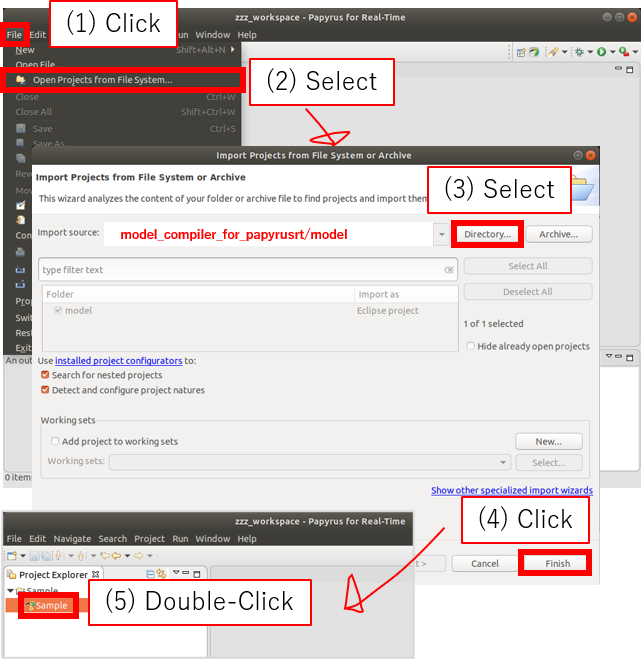
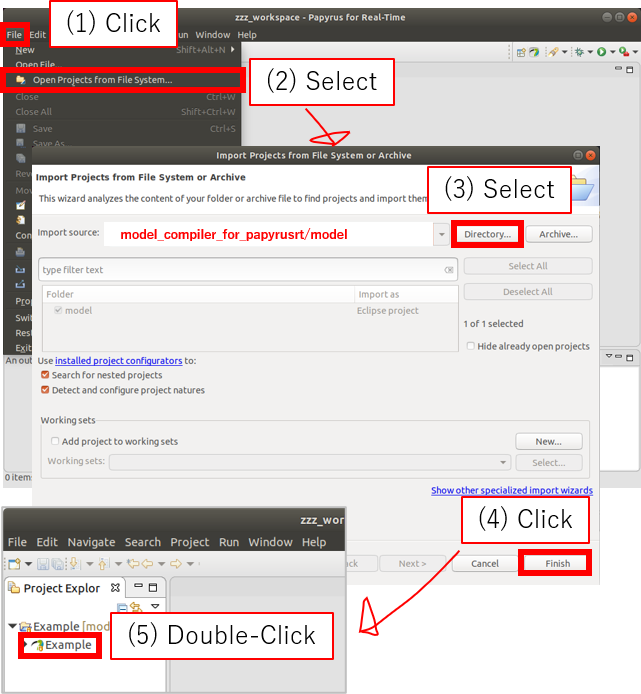
Update for renaming "sample" to "example"

Changed region(s): [[0.0, 0.0, 1.0, 1.0], [0.78, 0.0607, 0.9984, 0.1214], [0.936, 0.0, 0.9984, 0.0303]]

diff --git a/model_compiler_for_papyrusrt/test/build_configuration/test_build_configuration.py b/model_compiler_for_papyrusrt/test/build_configuration/test_build_configuration.py
@@ -23,7 +23,7 @@ class TestBuildConfiguration(unittest.TestCase):
         self.assertEqual('AliceAndBob', obj.get_target_name())
         self.assertEqual('executable', obj.get_target_type())
         self.assertEqual('TopAliceAndBob', obj.get_top_capsule_name())
-        self.assertEqual('model/Sample.uml', obj.get_model_file())
+        self.assertEqual('model/Example.uml', obj.get_model_file())
 
         expected_sources = [
             'TopAliceAndBob',
@@ -97,7 +97,7 @@ endif ()
         self.assertEqual('AliceAndBob', obj.get_target_name())
         self.assertEqual('executable', obj.get_target_type())
         self.assertEqual('TopAliceAndBob', obj.get_top_capsule_name())
-        self.assertEqual('model/Sample.uml', obj.get_model_file())
+        self.assertEqual('model/Example.uml', obj.get_model_file())
 
         expected_sources = [
             'TopAliceAndBob',
@@ -127,7 +127,7 @@ endif ()
         self.assertEqual('AliceAndBob', obj.get_target_name())
         self.assertEqual('executable', obj.get_target_type())
         self.assertEqual('TopAliceAndBob', obj.get_top_capsule_name())
-        self.assertEqual('model/Sample.uml', obj.get_model_file())
+        self.assertEqual('model/Example.uml', obj.get_model_file())
 
         expected_sources = [
             'TopAliceAndBob',
@@ -165,7 +165,7 @@ endif ()
         self.assertEqual('libfoo', obj.get_target_name())
         self.assertEqual('library', obj.get_target_type())
         self.assertEqual('Top', obj.get_top_capsule_name())
-        self.assertEqual('model/Sample.uml', obj.get_model_file())
+        self.assertEqual('model/Example.uml', obj.get_model_file())
 
         expected_sources = [
             'Top',

diff --git a/model_compiler_for_papyrusrt/test/generator/test_top_cmakelists_generator.py b/model_compiler_for_papyrusrt/test/generator/test_top_cmakelists_generator.py
@@ -14,7 +14,7 @@ class TestTopCMakeListsGenerator(unittest.TestCase):
 
     def test_typical_1(self):
         with tempfile.TemporaryDirectory() as tmpdir:
-            obj = top_cmakelists_generator.TopCMakeListsGenerator(tmpdir, ['PingPongNode', 'SampleNode'])
+            obj = top_cmakelists_generator.TopCMakeListsGenerator(tmpdir, ['PingPongNode', 'ExampleNode'])
             expected_str = '''
 # @brief Build script for Papyrus-RT project
 #
@@ -22,7 +22,7 @@ class TestTopCMakeListsGenerator(unittest.TestCase):
 # Generated by the Model Compiler for Papyrus-RT
 
 add_subdirectory(PingPongNode)
-add_subdirectory(SampleNode)
+add_subdirectory(ExampleNode)
 
 '''[1:]
 

diff --git a/model_compiler_for_papyrusrt/test/build_configuration/test_top_build_configuration.py b/model_compiler_for_papyrusrt/test/build_configuration/test_top_build_configuration.py
@@ -16,7 +16,7 @@ class TestTopBuildConfiguration(unittest.TestCase):
 
 
     def test_typical_1(self):
-        reference_expected = ['AliceAndBob.xml', 'SampleNode.xml']
+        reference_expected = ['AliceAndBob.xml', 'ExampleNode.xml']
         obj = top_build_configuration.TopBuildConfiguration(self.__data_dir + os.sep + 'tbc_typical.xml')
         reference_result = obj.get_references_in_relative_path()
 

diff --git a/doc/user_guide/how_to_integrate_the_model_compiler.md b/doc/user_guide/how_to_integrate_the_model_compiler.md
@@ -1,11 +1,11 @@
 # How to Integrate the Model Compiler for Papyrus-RT into Your Project
 
-In this document, let's learn about integration using sample project as an exmaple.
+In this document, let's learn about integration using exmaple project as an exmaple.
 
 ## Overview
 
 Let's see a diagram below.
-It is overview of sample project on this repository about model-compile
+It is overview of exmaple project on this repository about model-compile
 which includes codegen and build script generation.
 Compile and link(ordinary build) are not included in the diagram.
 
@@ -13,7 +13,7 @@ Arrows mean invocation or data flow.
 And leading numbers on arrow mean order of happen.
 (1)->(1.1)->(2)->(2.1) ...
 
-![Behavior](image/overview_sample_project.png)
+![Behavior](image/overview_example_project.png)
 
 This repository integrates the Model Compiler for Papyrus-RT
 using 2 build scripts, **Makefile(Project Top)** and **CMakeLists.txt(Project Top)**.
@@ -49,9 +49,9 @@ $(CODEGEN_DIR):
 
 **CMakeLists.txt(Project Top)** is responsible for followings
 
-* Build settings over the sample project
+* Build settings over the exmaple project
 * Custom targets definition: User can define targets which is outside of model
-    * In sample project, target of Runtime Service(RTS) library defined using libumlrts.cmake
+    * In exmaple project, target of Runtime Service(RTS) library defined using libumlrts.cmake
 * Model-compile target definition which invokes the Model Compiler for Papyrus-RT
 * `add_subdirectory()` to codegen directory
 
@@ -66,7 +66,7 @@ Succeeding sections explains some key points.
 Installation is recommended for the Model Compiler for Papyrus-RT integration
 into project outside of this repository.
 Because installed one can be invoked independently against current directory.
-(You don't have to install for trying sample project on this repository.)
+(You don't have to install for trying exmaple project on this repository.)
 
 Let's type following to install.
 
@@ -134,13 +134,13 @@ Empty target-specific build configuration(AliceAndBob.xml)
 ```
 
 Let's fill the target-specific build configuration using AliceAndBob project as an example.
-(AliceAndBob is sample project on this repository)
+(AliceAndBob is exmaple project on this repository)
 
 targetName is **AliceAndBob**  
 targetType is **executable**  
 
 modelFile is path to model file from project top directory.
-Assume it is **model/Sample.uml**
+Assume it is **model/Example.uml**
 
 AliceAndBob project has following elements.
 These elements are needed to be listed as sources/source
@@ -160,7 +160,7 @@ Target-specific build configuration will be following
     <targetName>AliceAndBob</targetName>
     <targetType>executable</targetType>
     <topCapsuleName>TopAliceAndBob</topCapsuleName>
-    <modelFile>model/Sample.uml</modelFile>
+    <modelFile>model/Example.uml</modelFile>
     <sources>
         <source>TopAliceAndBob</source>
         <source>Alice</source>
@@ -247,7 +247,7 @@ Finished target-specific build configuration will be following.
     <targetName>AliceAndBob</targetName>
     <targetType>executable</targetType>
     <topCapsuleName>TopAliceAndBob</topCapsuleName>
-    <modelFile>model/Sample.uml</modelFile>
+    <modelFile>model/Example.uml</modelFile>
     <sources>
         <source>TopAliceAndBob</source>
         <source>Alice</source>

diff --git a/README.md b/README.md
@@ -16,7 +16,7 @@ And it generates source codes and CMake build scripts.
 (Codegen functionality uses Papyrus-RT's standalone code generator.)
 
 This project has implementation of the Model Compiler for Papyrus-RT,
-and sample project(you can build and run).
+and example project(you can build and run).
 
 ## Motivation
 
@@ -46,11 +46,11 @@ I hope that there is command-line code generation feature on Papyrus-RT for deve
 * **Python 3** 3.6.8 or above
 * **CMake** 3.17 or above
 * And toolchain which can build C++ source code
-    * **GNU Make** (Sample project depends it. The Model Compiler for Papyrus-RT itself does not depends.)
+    * **GNU Make** (Example project depends it. The Model Compiler for Papyrus-RT itself does not depends.)
 
 ## How to Use
 
-#### How to Try Sample Project
+#### How to Try Example Project
 
 ###### Step 1: Settings
 
@@ -83,7 +83,7 @@ On Papyrus-RT, let's operation followings.
 1. Select "Open Projects from File System..." (Wizard appears)
 1. Select model directory on the wizard
 1. Click "Finish" button on the wizard(The wizard disappears)
-1. Double-click "Sample" on Project Explorer
+1. Double-click "Example" on Project Explorer
 
 ![How to Open Model](doc/user_guide/image/how_to_open_model.png)
 
@@ -102,7 +102,7 @@ make
 
 ###### Misc: Explanation of AliceAndBob
 
-AliceAndBob is one of executables in sample project and executed in step 4.
+AliceAndBob is one of executables in example project and executed in step 4.
 Capsules "Alice" and "Bob" send messages each other.
 Sequence diagram of the AliceAndBob is below.
 
@@ -111,21 +111,21 @@ Sequence diagram of the AliceAndBob is below.
 
 #### The Others
 
-* [Sample project explanation](doc/user_guide/sample_project_explanation.md)
+* [Example project explanation](doc/user_guide/example_project_explanation.md)
 * [How to integrate the Model Compiler for Papyrus-RT into your project](doc/user_guide/how_to_integrate_the_model_compiler.md)
 
 ## Directory Structure
 
 ```
-+---build_configuration             Build configuration of the sample project
++---build_configuration             Build configuration of the example project
 +---doc                             Documents
-+---model                           Model of the sample project
++---model                           Model of the example project
 +---model_compiler_for_papyrusrt    Impelementation of the Model Compiler for Papyrus-RT
 +---zzz_build                       [Temporary Directory]
-|                                   Build directory of the sample project.
+|                                   Build directory of the example project.
 |                                   Deliverables such as executables, libraries are created here.
 +---zzz_codegen                     [Temporary Directory]
-|                                   Codegen directory of the sample project.
+|                                   Codegen directory of the example project.
 |                                   Codes and build scripts are generated here.
 \---zzz_workspace                   [Temporary Directory]
                                     Papyrus-RT's workspace.

diff --git a/doc/user_guide/example_project_explanation.md b/doc/user_guide/example_project_explanation.md
@@ -1,4 +1,4 @@
-# Sample Project Explanation
+# Example Project Explanation
 
 ## AliceAndBob
 
@@ -9,7 +9,7 @@ This is explained on top-level README.md.
 
 Alice and Bob send messages through proxies.
 The proxies transfer messages with file which is one of inter-process communication method.
-(In this sample project, there is no pros because all capsule instances run on same process.)
+(In this example project, there is no pros because all capsule instances run on same process.)
 
 The following is a composite structure diagram(drawing of files is added with image editor).
 

diff --git a/doc/development/20_design/design.md b/doc/development/20_design/design.md
@@ -286,7 +286,7 @@ Typical target-specific build configuration is below.
     <targetName>AliceAndBob</targetName>
     <targetType>executable</targetType>
     <topCapsuleName>TopAliceAndBob</topCapsuleName>
-    <modelFile>model/Sample.uml</modelFile>
+    <modelFile>model/Example.uml</modelFile>
     <sources>
         <source>TopAliceAndBob</source>
         <source>Alice</source>
